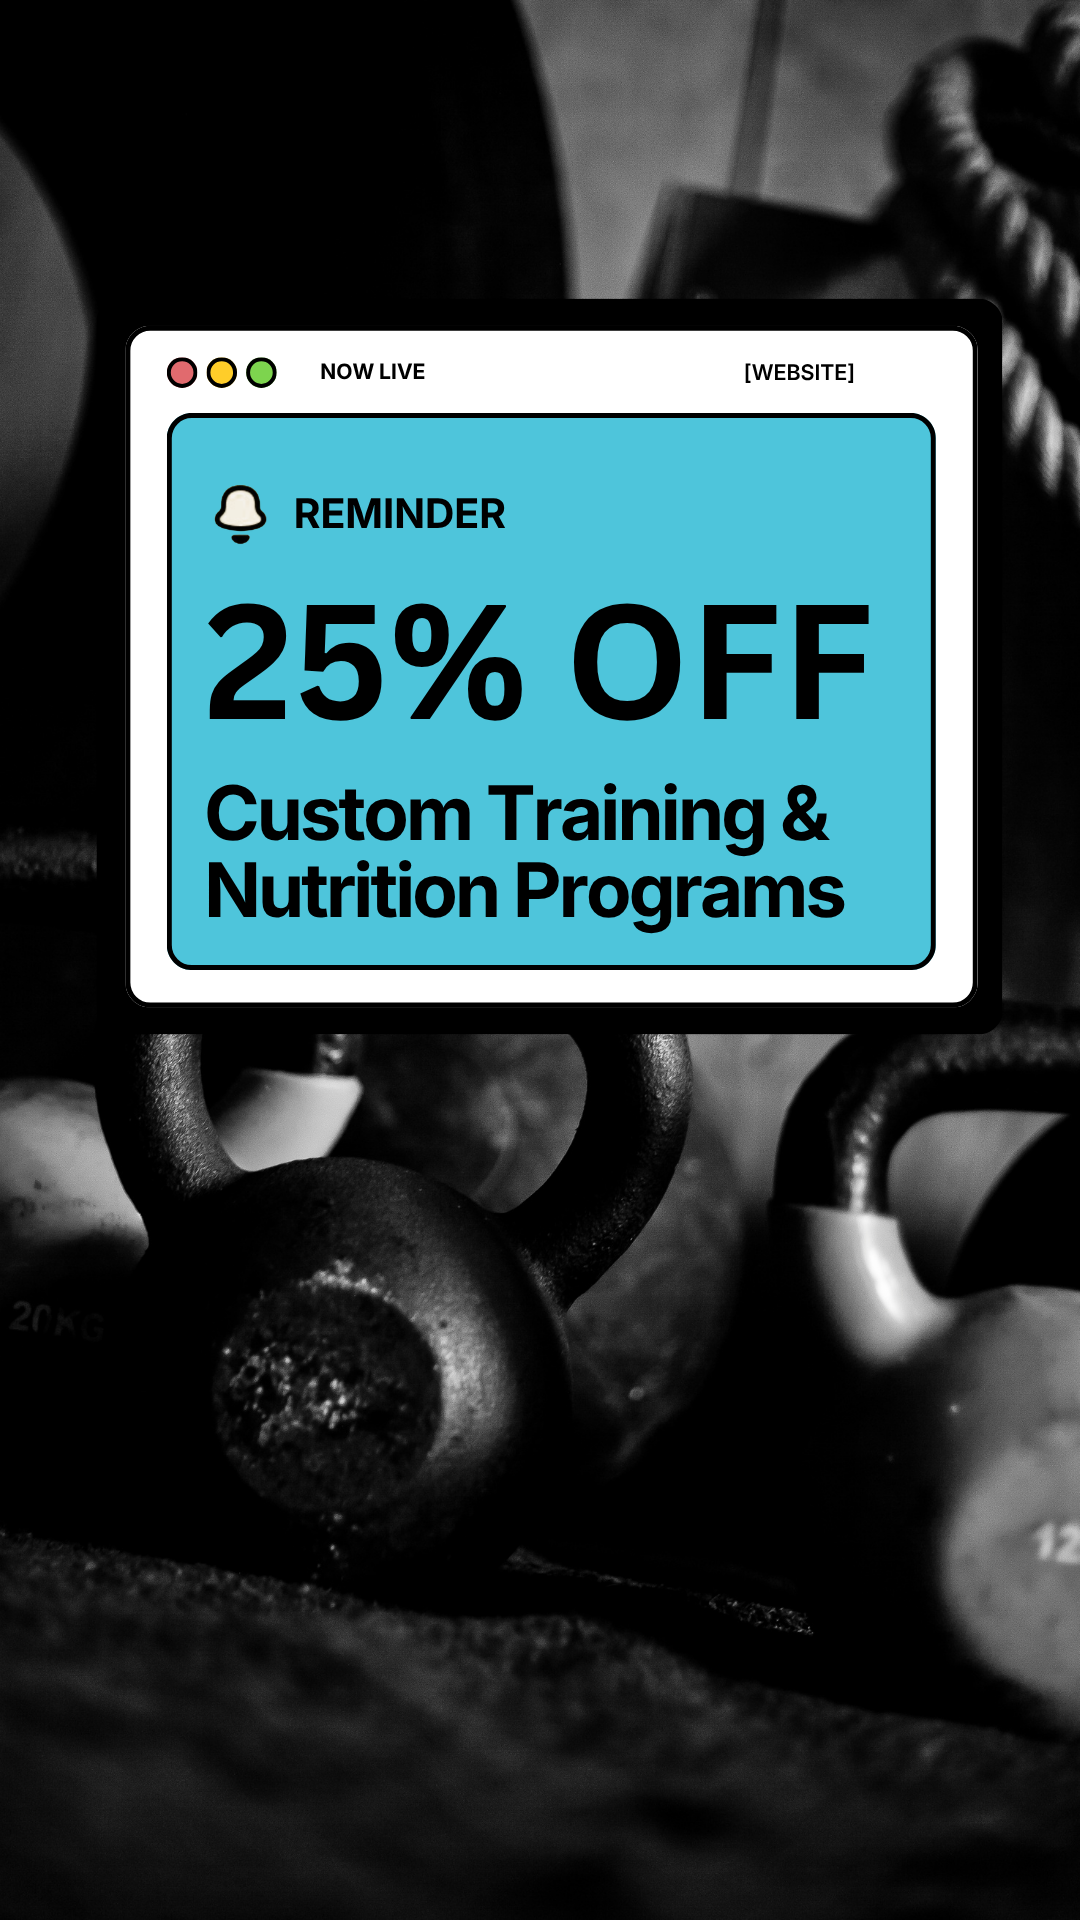
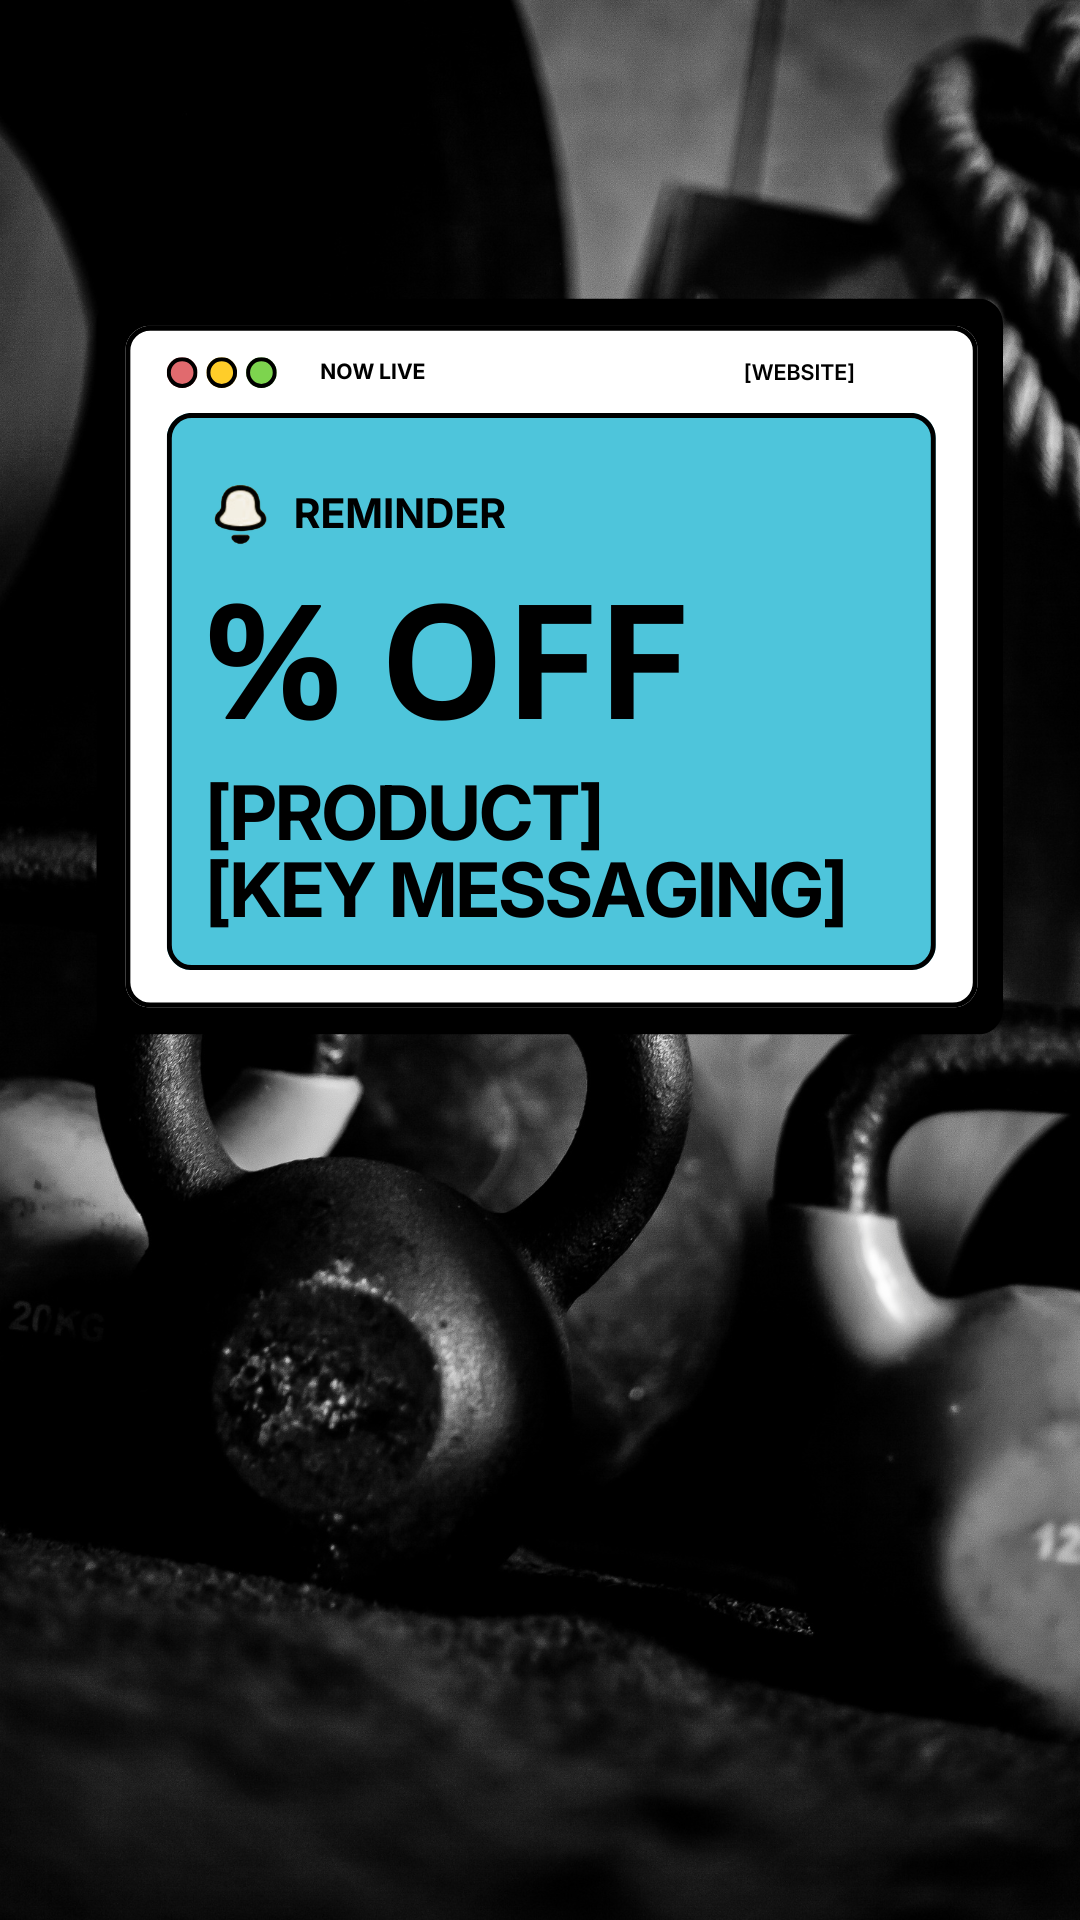
Swap template 01 PNG + recalibrate slot config for new layout
New design has a different structure from the original:
- Outer white frame with NOW LIVE + [WEBSITE] header
- 🔔 REMINDER label inside the cyan card
- Bigger "% OFF" headline (left-aligned, takes the discount value)
- Two-line block: [PRODUCT] + [KEY MESSAGING]

Slot rects rewritten to land on the new positions. WEBSITE moved
into the white frame (coverColor #ffffff). PRODUCT moved from the
single-line subtext slot to its own line, with KEY MESSAGING just
below it — both left-aligned, both populated from challengeName
and promise respectively.

Changed region(s): [[0.1833, 0.4062, 0.7944, 0.5], [0.1833, 0.3125, 0.825, 0.375]]

diff --git a/templates-config.js b/templates-config.js
@@ -9,27 +9,36 @@
 
 export const AD_TEMPLATES = [
 
-  /* ---- Template 01 — "Reminder Card" -------------------- */
+  /* ---- Template 01 — "Reminder Card v2" -------------------- */
   {
     id: '1',  file: 'templates/1.png',
     title: 'Template 01 — Reminder Card',
     canvaUrl: 'https://www.canva.com/d/EnObVYAyRVU_N0_',
     slots: [
+      // [WEBSITE] tag in the white frame top-right
       { type: 'text', field: 'handle', fallback: '@yourbrand',
-        rect: { x: 600, y: 470, w: 320, h: 60 },
-        coverColor: '#4ec8d2',
+        rect: { x: 620, y: 320, w: 260, h: 55 },
+        coverColor: '#ffffff',
         style: { fontSize: 30, fontWeight: 'bold', color: '#1a1a2e',
                  align: 'right', valign: 'middle', maxLines: 1 } },
+      // Big "% OFF" headline in the cyan card
       { type: 'text', field: 'ctaStyle', fallback: '25% OFF',
-        rect: { x: 130, y: 620, w: 820, h: 160 },
+        rect: { x: 195, y: 525, w: 690, h: 180 },
         coverColor: '#4ec8d2',
-        style: { fontSize: 130, fontWeight: '900', color: '#1a1a2e',
-                 align: 'center', valign: 'middle', transform: 'upper', maxLines: 1 } },
-      { type: 'text', field: 'promise', fallback: 'Custom Training & Nutrition Programs',
-        rect: { x: 130, y: 790, w: 820, h: 200 },
+        style: { fontSize: 140, fontWeight: '900', color: '#0a0a0f',
+                 align: 'left', valign: 'middle', transform: 'upper', maxLines: 1 } },
+      // [PRODUCT] line below the headline
+      { type: 'text', field: 'challengeName', fallback: 'Your product',
+        rect: { x: 195, y: 740, w: 690, h: 100 },
         coverColor: '#4ec8d2',
-        style: { fontSize: 56, fontWeight: 'bold', color: '#1a1a2e',
-                 align: 'center', valign: 'middle', maxLines: 2 } }
+        style: { fontSize: 64, fontWeight: '900', color: '#0a0a0f',
+                 align: 'left', valign: 'middle', transform: 'upper', maxLines: 1 } },
+      // [KEY MESSAGING] line directly below product
+      { type: 'text', field: 'promise', fallback: 'Key messaging',
+        rect: { x: 195, y: 840, w: 690, h: 100 },
+        coverColor: '#4ec8d2',
+        style: { fontSize: 60, fontWeight: '900', color: '#0a0a0f',
+                 align: 'left', valign: 'middle', transform: 'upper', maxLines: 1 } }
     ]
   },
 